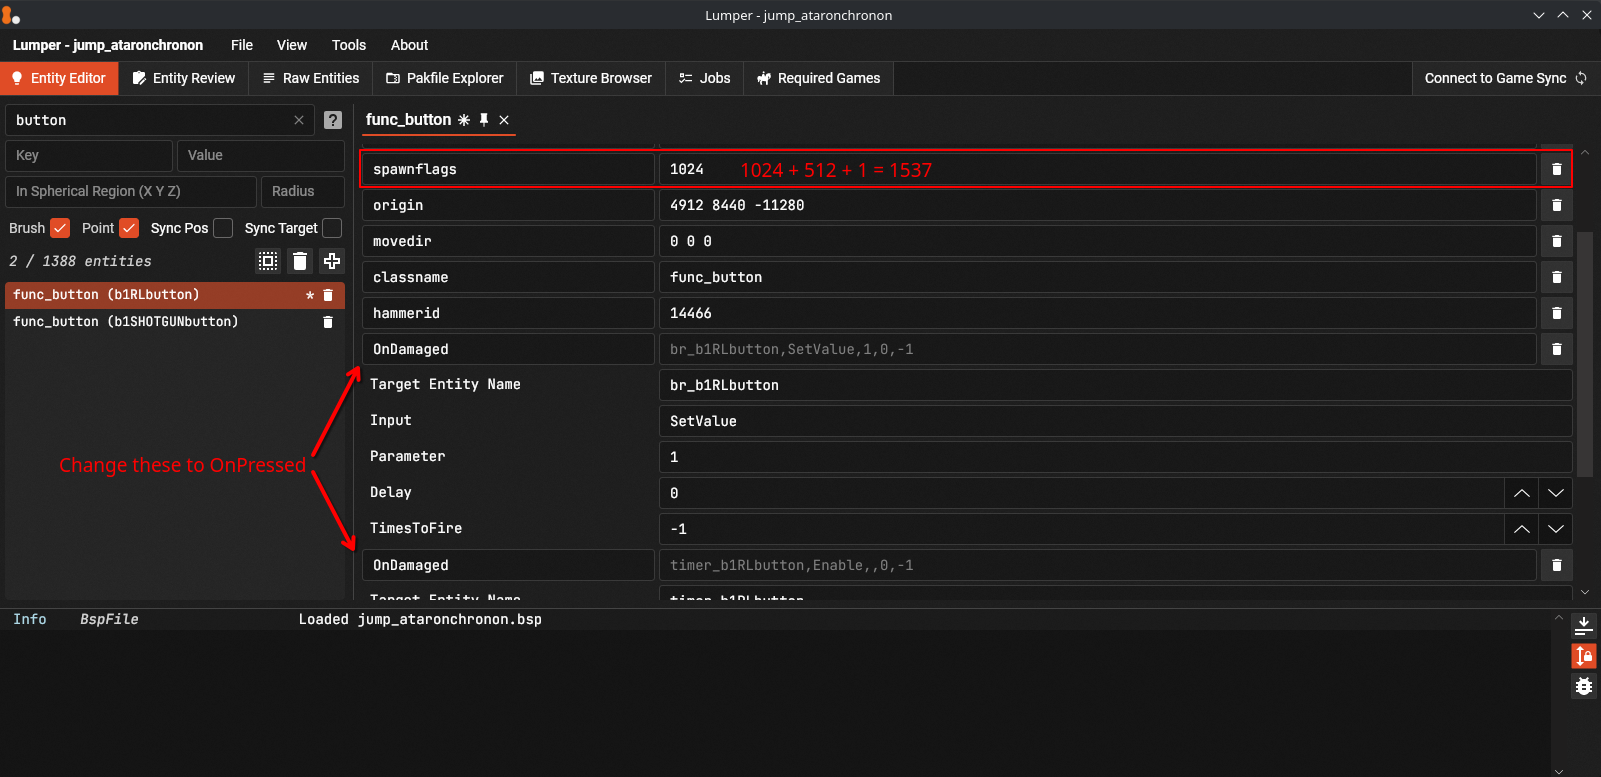
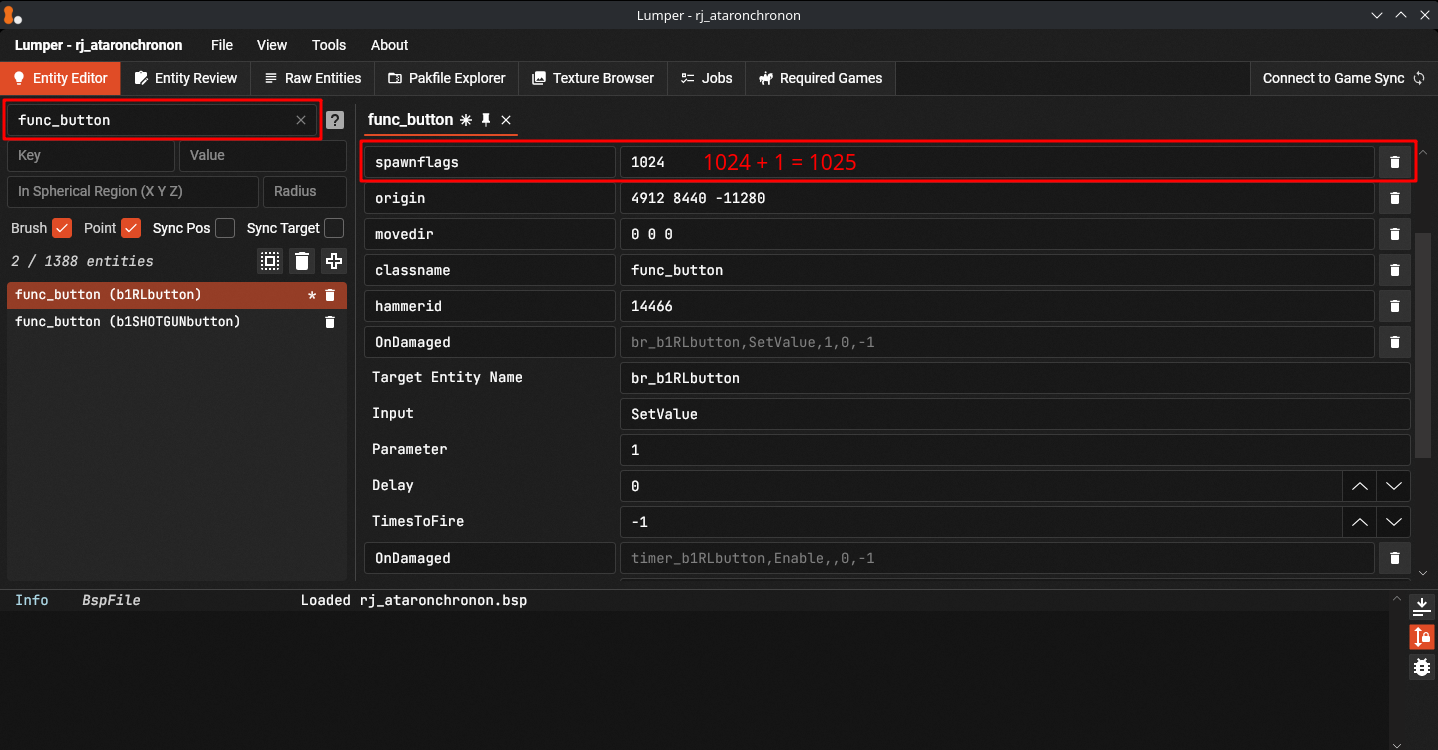
Buttons, missing triggers, minor fixes

diff --git a/content/docs/guide/map_submission/fixing_entities.md b/content/docs/guide/map_submission/fixing_entities.md
@@ -233,25 +233,18 @@ These files are saved to **/momentum/maps/entitytools_stripper** folder.
 # Modifications in Lumper
 
 ## func_button
-Shooting a button to activate it in **Rocket Jump** can have a different effect in Momentum Mod compared to TF2.
-1. Check all **func_button** in Lumper
-2. Identify those that have an **OnDamaged** output
-3. Change **OnDamaged** to **OnPressed**
-3. Add **512** to **spawnflags** if it's not already enabled
-    - To determine if this flag is enabled divide the value in **spawnflags** by 512 and round down the result. If it's **odd** the flag is enabled
-4. If the button is moving very slowly add **1** to **spawnflags** to disable it's movement  
+Some buttons reset their position **much slower** in Momentum Mod.  
+Add **1** to **spawnflags** in order to disable their movement
 
 ![Fix Buttons](/images/map_porting/fix_buttons.png)
 
 
 ## logic_timer
 This entity is generally used for displaying time on Rocket Jump / Sticky Jump / KZ maps.  
-Old surf maps however, often use it to teleport players to **jail** after a set amount of time.
+Old surf maps however, often use it to teleport players to **jail** after a set amount of time.  
 If used for **jail**, this entity needs to be removed.
 
 ![Lumper Timer](/images/map_porting/lumper_timer.png)
-
-    
 
 
 # Rare Issues
@@ -348,20 +341,6 @@ TODO: Rewrite if replacing textures with vtfs is added to lumper
 {{</hint>}}
 
 ![Corrupt Cubemaps](/images/map_porting/corrupt_cubemaps.png)
-
-## Misplaced / Missing triggers
-On very rare occassions maps can have missing or misplaced triggers.  
-It's possible to add any rectangular triggers to the map without decompiling by using community made tools and Lumper.
-- [vmf_to_stripper](https://github.com/benjl/vmf_to_stripper/) - Allows for converting triggers made in hammer to a stripper config
-- [zoneToTrigger](https://github.com/Natanxp2/zoneToTrigger) - Allows for converting [Momentum Mod zones](/guide/map_submission/map_zoning/) to a stripper config
-
-{{<hint danger>}}
-
-Be very careful when modifying maps in this way.  
-It's best to contact the mapper to make sure they are fine with whatever you are trying to do.  
-You can always ask for help in **#map-porting** channel on our [Discord](https://discord.gg/momentummod).
-
-{{</hint>}}
 
 ## Collectibles
 When porting maps with collectibles make sure that they function correctly **according to the mapper's original design**.  

diff --git a/content/docs/guide/map_submission/map_porting.md b/content/docs/guide/map_submission/map_porting.md
@@ -140,7 +140,6 @@ Music in Momentum Mod need to be categorized properly for volume sliders to work
 
 ![Moving Sounds](/images/map_porting/lumper_moving_sounds.png)
 
-
 ### Cubemaps
 If you renamed the map during the [setup](#setup), reflections might be broken.  
 You can skip this step if you didn't rename the map.  
